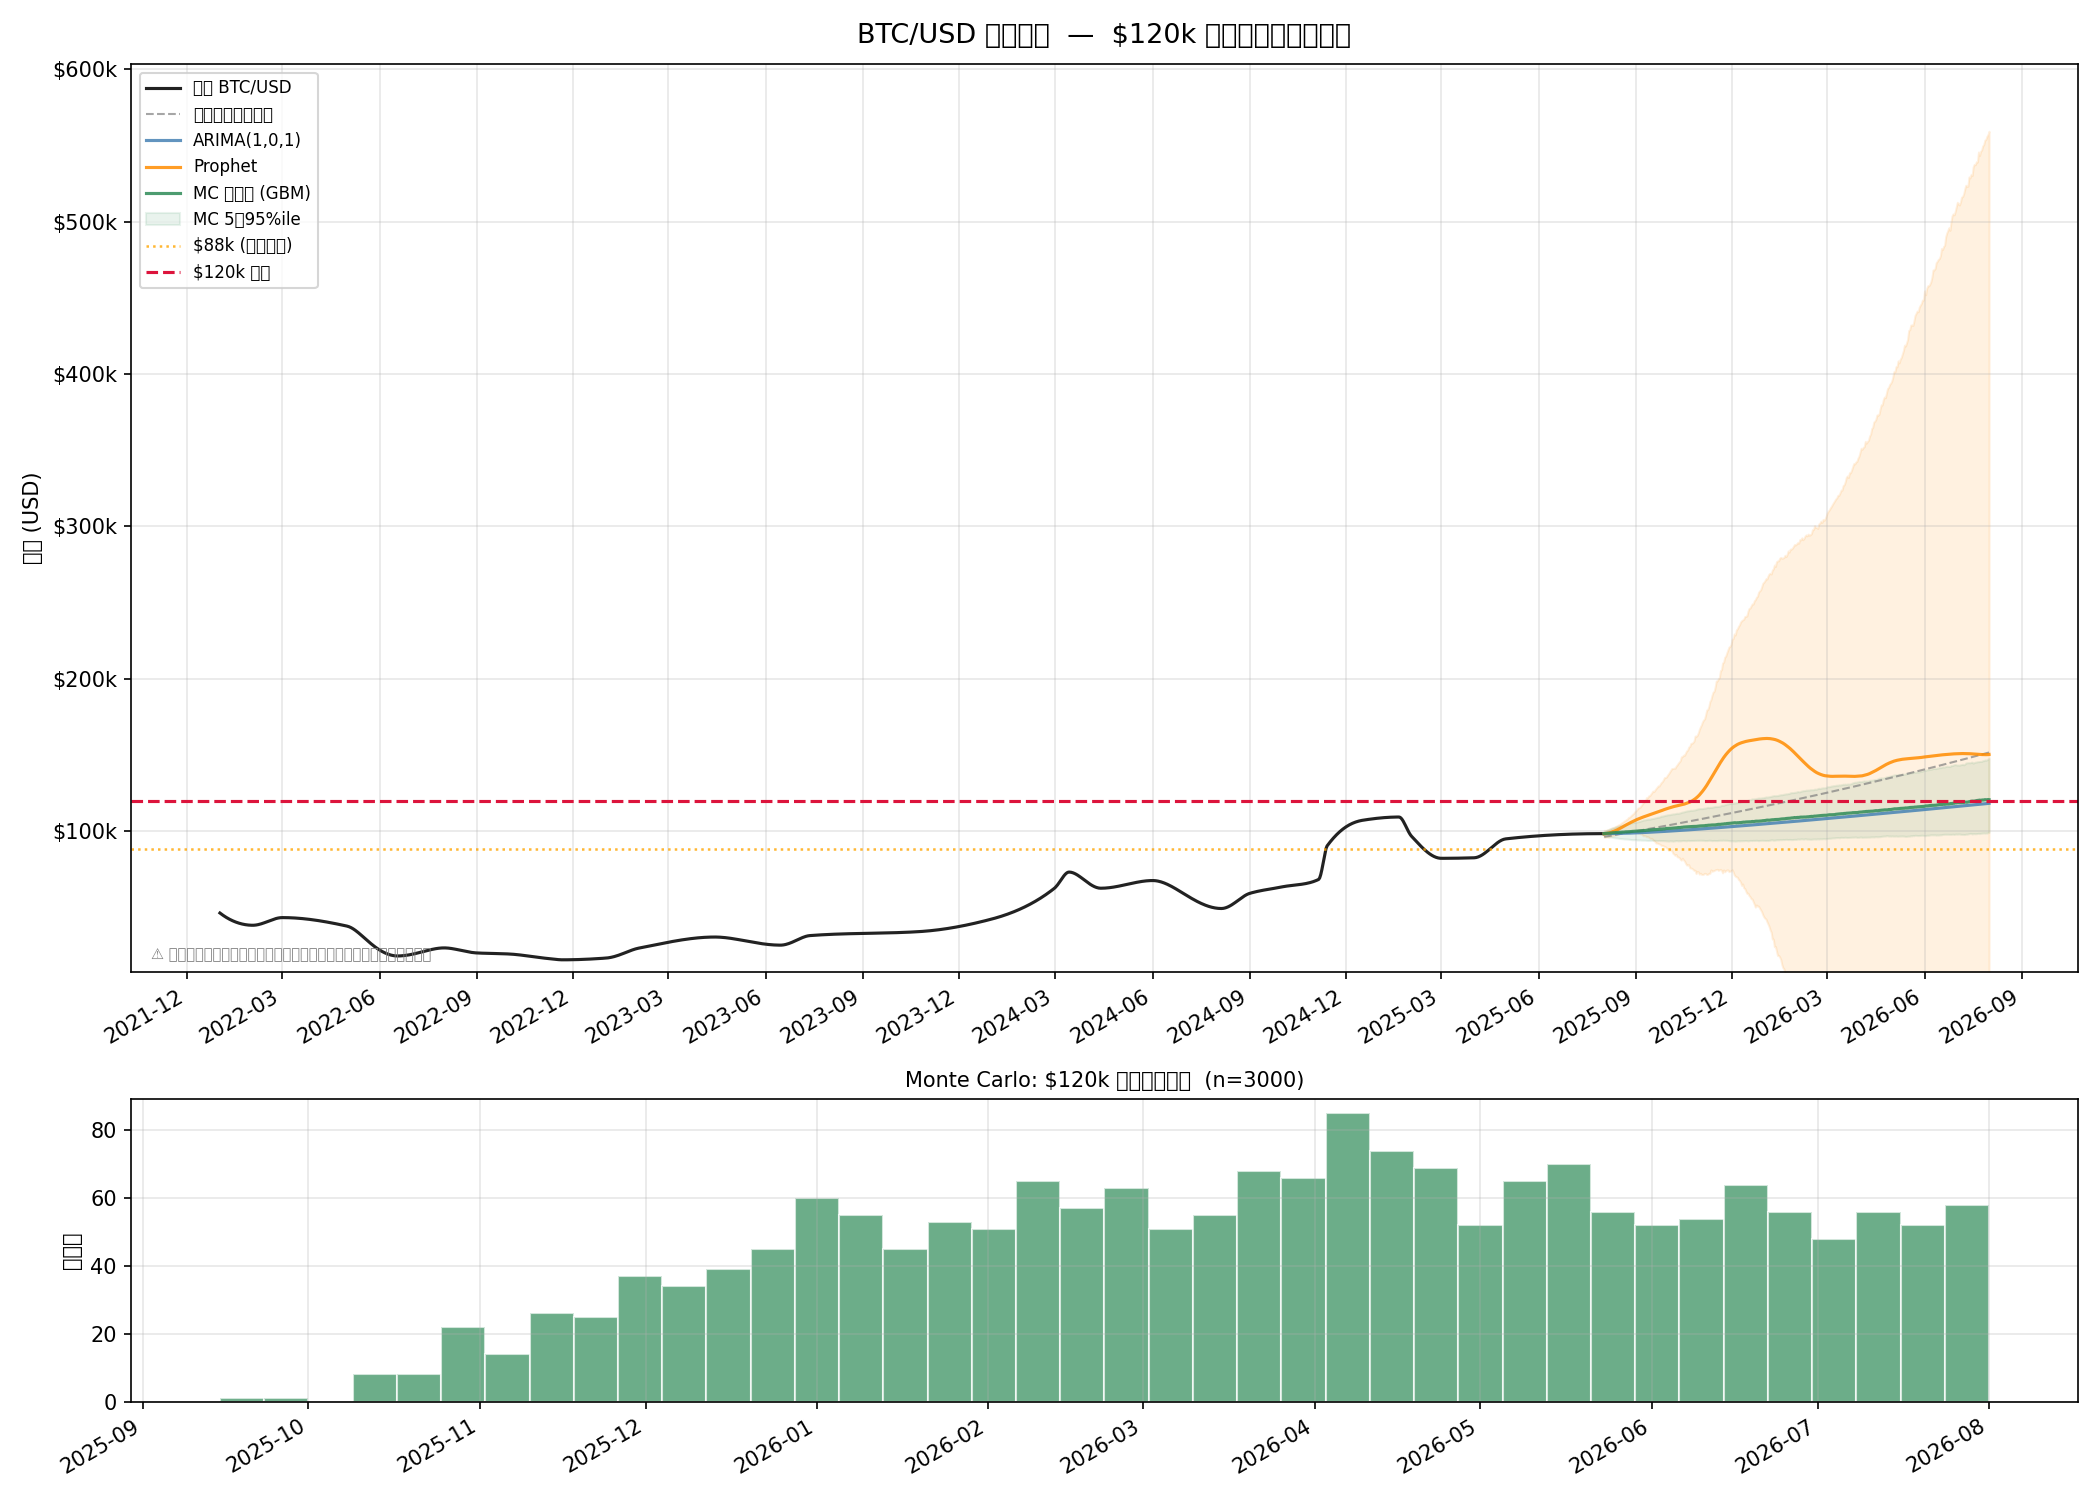
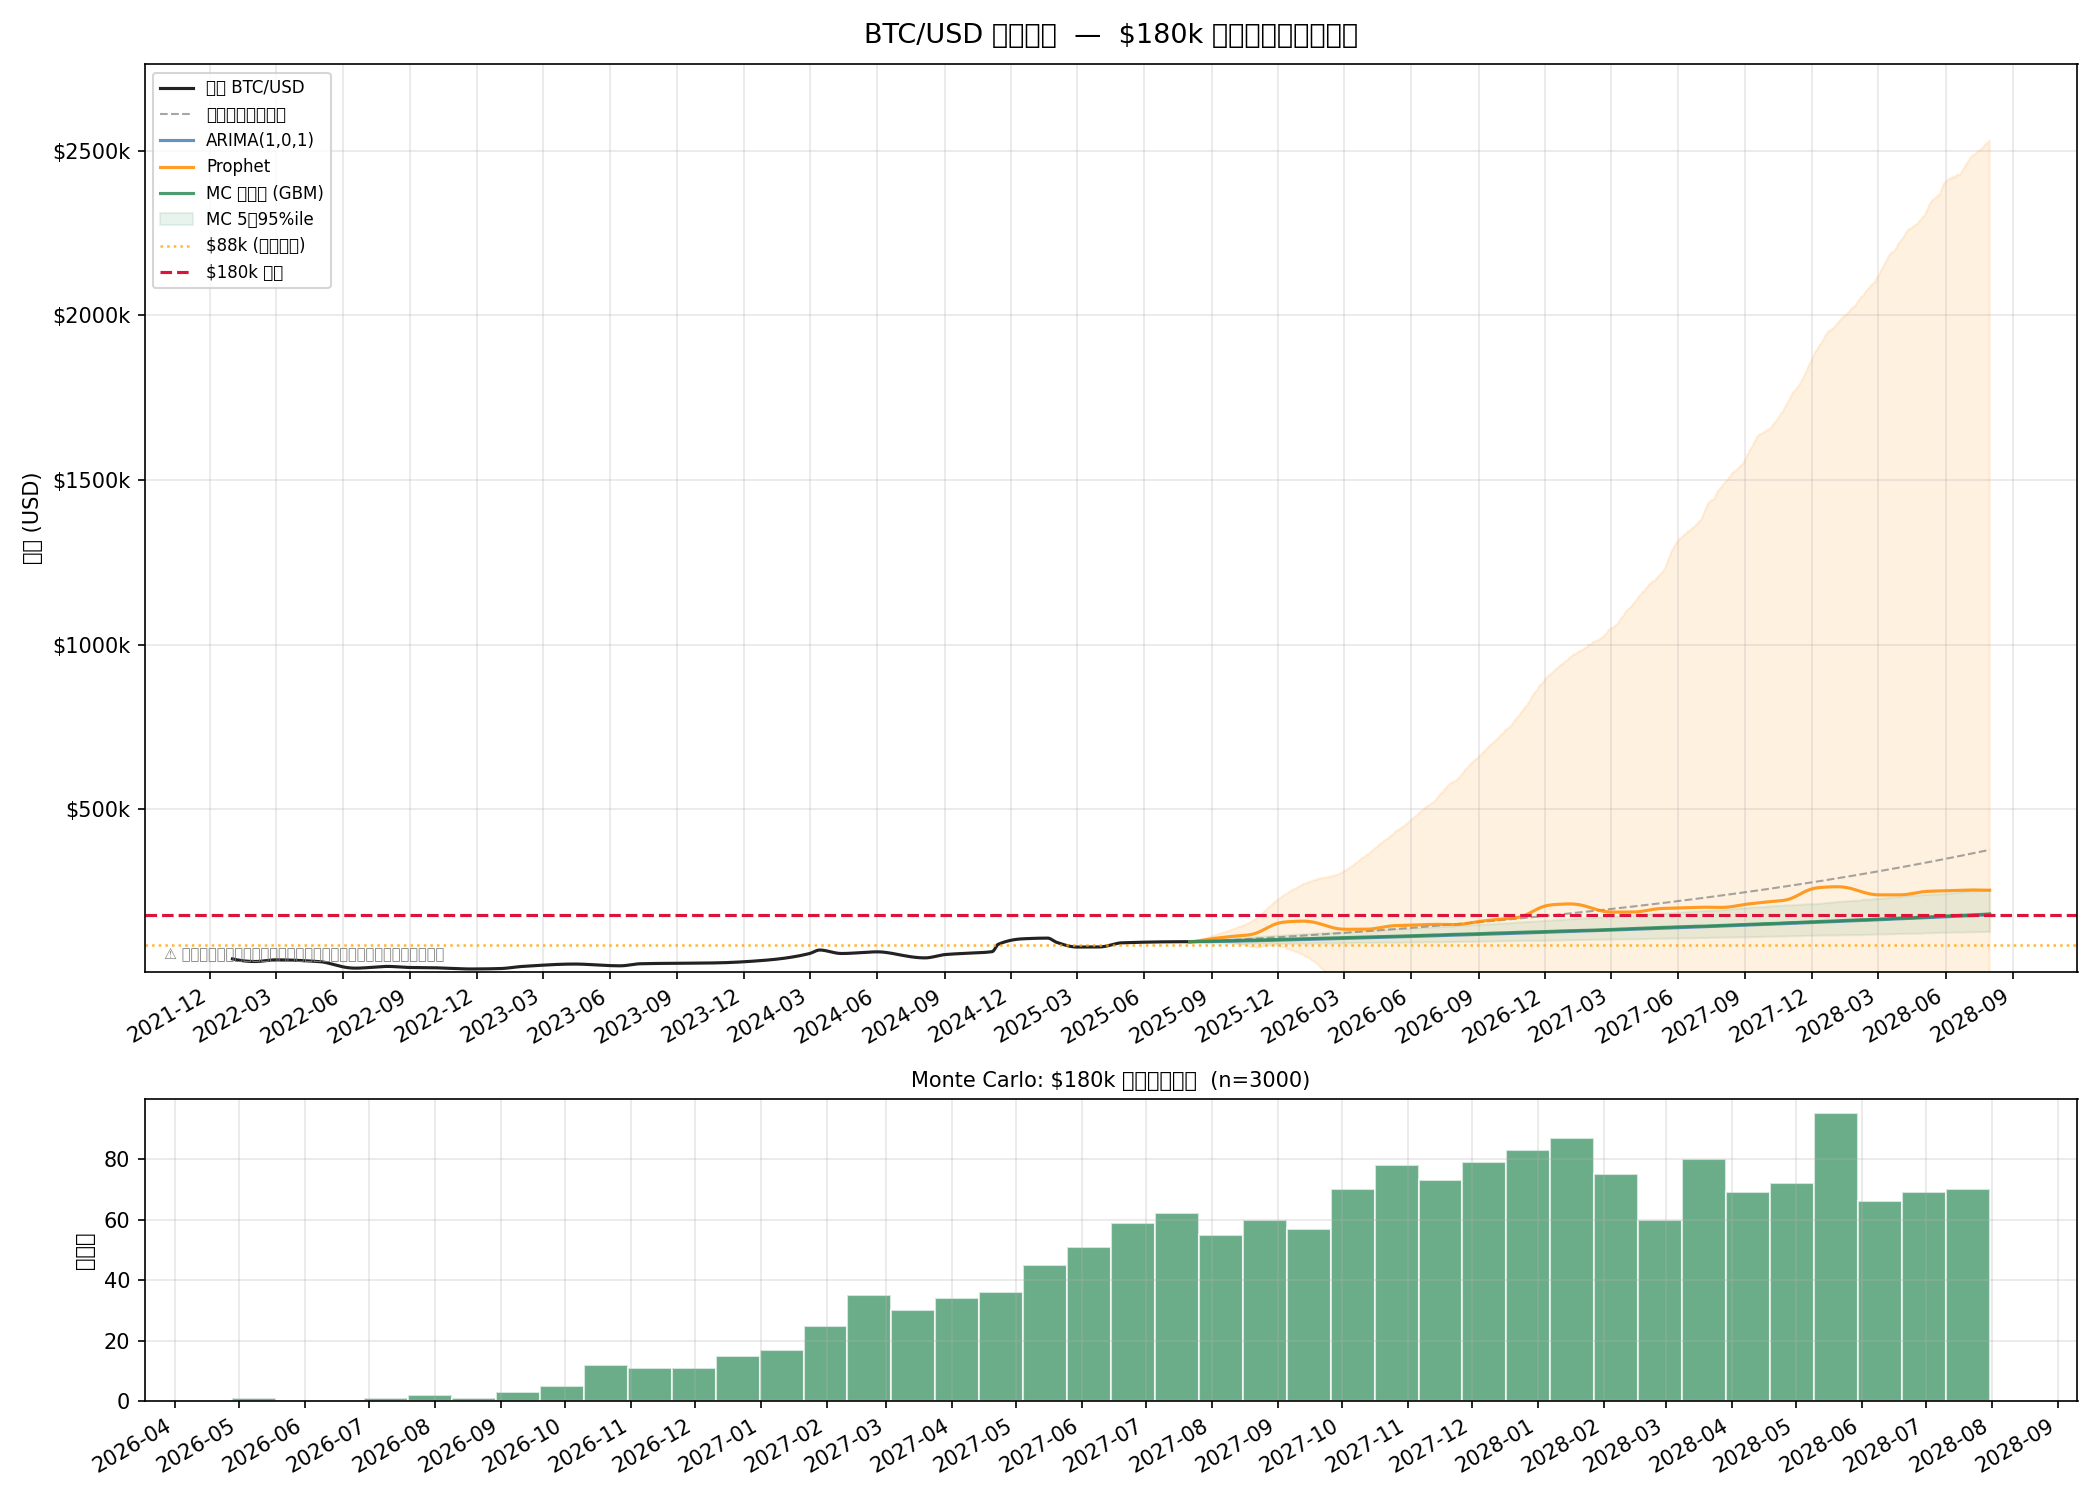
feat: BTC $180k 予測に対応 — ホライズン3年・低確率時の表示改善
- ターゲットを $120k → $180k に変更
- 予測期間を1年 → 3年に拡張
- MC 到達確率が低い場合（<30パス）はパーセンタイル日付を非表示
- $88k ラインをチャートに参照線として追加

https://claude.ai/code/session_015fWJABZrbBPhQq4psUgG8R

diff --git a/btc_predict.py b/btc_predict.py
@@ -236,7 +236,7 @@ def predict_montecarlo(
 # ── 6. $88k 到達日レポート ─────────────────────────────────────────────────────
 
 TARGET_88K  = 88_000.0
-TARGET      = 120_000.0   # $88k はすでに突破済みのためより高い目標で予測
+TARGET      = 180_000.0
 
 def first_cross(series: pd.Series, target: float = TARGET) -> str:
     crossed = series[series >= target]
@@ -249,20 +249,23 @@ def report_montecarlo(mc: dict, target: float = TARGET) -> None:
     hit = mc['hit_days']
     n   = mc['n_sim']
     idx = mc['idx']
+    horizon_y = len(idx) / 365
+    prob = len(hit) / n * 100
     if not hit:
-        print(f"  到達確率: 0% (予測期間内なし)")
+        print(f"  到達確率 ({horizon_y:.0f}年以内): 0%  (n={n})")
         return
-    prob      = len(hit) / n * 100
-    p25_day   = int(np.percentile(hit, 25))
-    p50_day   = int(np.percentile(hit, 50))
-    p75_day   = int(np.percentile(hit, 75))
-    p25_date  = idx[p25_day].date() if p25_day < len(idx) else '期間外'
-    p50_date  = idx[p50_day].date() if p50_day < len(idx) else '期間外'
-    p75_date  = idx[p75_day].date() if p75_day < len(idx) else '期間外'
-    print(f"  到達確率 (1年以内): {prob:.1f}%  (n={n})")
-    print(f"  25パーセンタイル  : {p25_date}")
-    print(f"  中央値 (50%ile)   : {p50_date}")
-    print(f"  75パーセンタイル  : {p75_date}")
+    print(f"  到達確率 ({horizon_y:.0f}年以内): {prob:.1f}%  (n={n})")
+    if len(hit) < 30:
+        print(f"  ※ サンプル数が少ないため日付推定は信頼性が低い ({len(hit)}パスのみ到達)")
+        return
+    p25_day  = int(np.percentile(hit, 25))
+    p50_day  = int(np.percentile(hit, 50))
+    p75_day  = int(np.percentile(hit, 75))
+    def _d(day: int) -> str:
+        return str(idx[day].date()) if day < len(idx) else '期間外'
+    print(f"  25パーセンタイル  : {_d(p25_day)}")
+    print(f"  中央値 (50%ile)   : {_d(p50_day)}")
+    print(f"  75パーセンタイル  : {_d(p75_day)}")
 
 
 # ── 7. チャート描画 ────────────────────────────────────────────────────────────
@@ -333,7 +336,7 @@ def plot_all(df: pd.DataFrame, arima: pd.Series, prophet: tuple,
 # ── main ───────────────────────────────────────────────────────────────────────
 
 def main() -> None:
-    HORIZON = 365   # 予測日数
+    HORIZON = 365 * 3   # 予測日数（3年）
     OUT     = './output/btc_predict.png'
 
     df = fetch_btc(years=4)